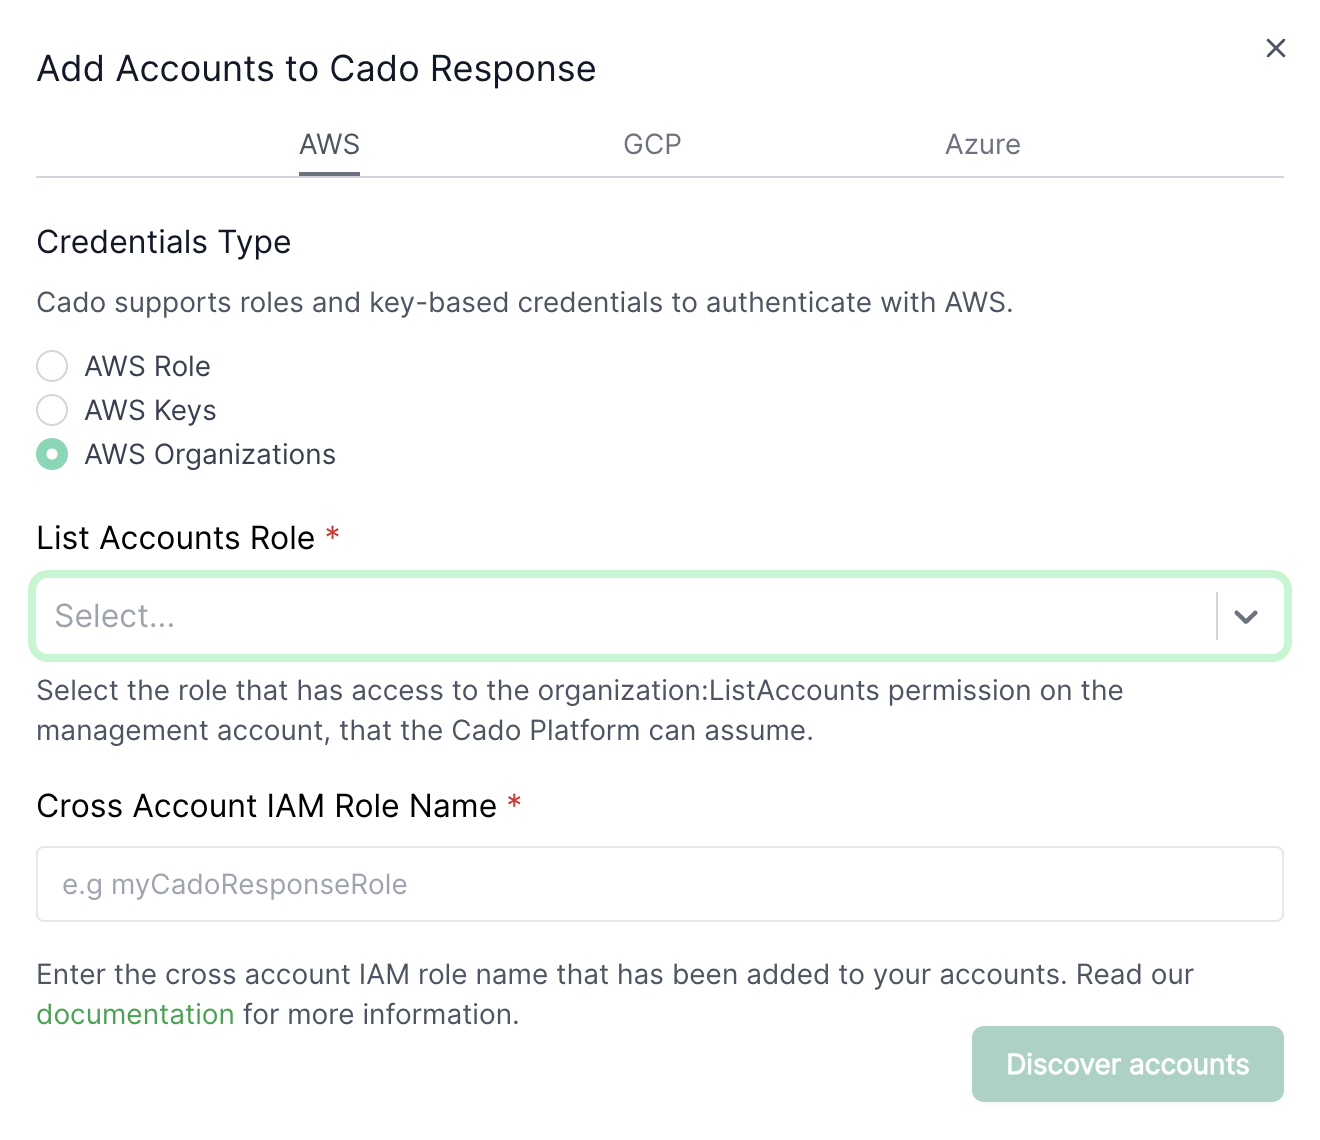
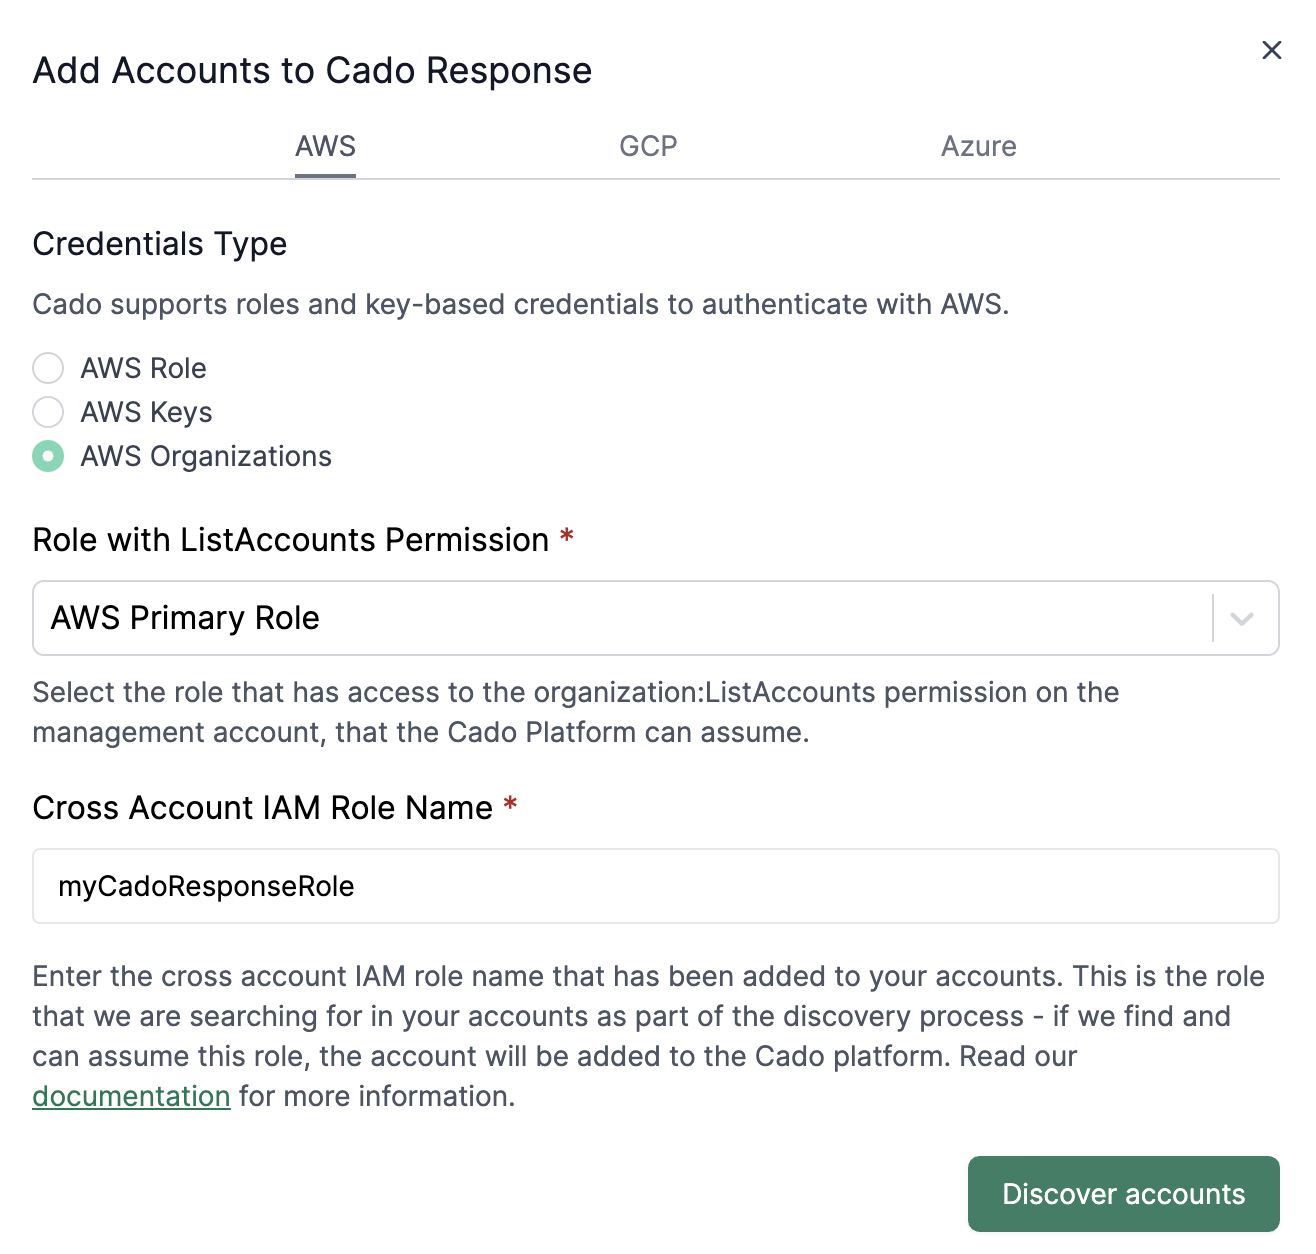
Improve AWS orgs and api docs

diff --git a/docs/cado/deploy/cross/aws-organizations.md b/docs/cado/deploy/cross/aws-organizations.md
@@ -6,23 +6,30 @@ sidebar_position: 5
 
 # How to automatically add cross-account roles to Cado with AWS Organizations
 
+This guide will walk you through how to integrate AWS roles into the Cado platform using AWS Organizations. It covers how to configure account discovery, permissions, and common troubleshooting scenarios.
+
+This is the recommended way to add cross-account roles you have deployed to the Cado Platform, to enable the platform to import data from multiple AWS accounts.
+
 :::tip
-This feature is currently in beta and is the recommended method. To enable it, go to *Settings > Experiments* and turn on "AWS Organizations Account Discovery."
+This feature is currently in beta. To enable it, go to *Settings > Experiments* and turn on "AWS Organizations Account Discovery."
 :::
 
-Using AWS Organizations is an alternative, and recommended, way to enable [cross-account access](./cross-account-creation.md) for the Cado Platform. This method simplifies managing access to multiple AWS accounts in environments where accounts are organized under AWS Organizations.
 
-You can view the cross-account role configuration [here](https://github.com/cado-security/Deployment-Templates/blob/main/cross-account/CrossAccountPolicy.yaml).
+Alternatively, you can use the [Cado API](/cado/deploy/cross/cross-account-creation-api) to add cross-account roles to the platform.
 
-## Permissions: ListAccounts
+## Prerequisites
 
-The [ListAccounts](https://docs.aws.amazon.com/organizations/latest/APIReference/API_ListAccounts.html) operation retrieves a list of all accounts within your organization. It can only be executed from the management account of the AWS Organization. 
+Before starting, ensure that you have the following in place:
+- **AWS Organizations** configured with multiple AWS accounts under a single management account.
+- **IAM roles** with the necessary cross-account permissions applied to all AWS accounts using [AWS StackSets](/cado/deploy/cross/cross-account-creation-auto) or [manual deployment](/cado/deploy/cross/cross-account-creation).
+- **Cado Platform Access**, specifically with admin rights to manage cloud accounts.
 
-In the Cado Platform, you’ll need to choose the role with the ListAccounts permission for the management account. You can do this by selecting the appropriate role from the 'List Accounts Role' dropdown, found in *Settings > Cloud Accounts*.
 
-### Example IAM Policy
+### 1. **Setting Permissions for Account Discovery**
 
-Here’s an example of an IAM policy for granting the ListAccounts permission:
+The [ListAccounts](https://docs.aws.amazon.com/organizations/latest/APIReference/API_ListAccounts.html) operation is used by Cado to retrieve a list of all accounts within your organization. It can only be executed from the management account of the AWS Organization.
+
+For the code to function correctly, the IAM role used for discovery must have the necessary permissions to list accounts in AWS Organizations. Here’s a minimal example of an IAM policy:
 
 ```json
 {
@@ -31,9 +38,6 @@ Here’s an example of an IAM policy for granting the ListAccounts permission:
     {
       "Sid": "ListAccounts",
       "Effect": "Allow",
-      "Principal": {
-        "AWS": "arn:aws:iam::xxx:root"
-      },
       "Action": [
         "organizations:ListAccounts",
         "organizations:ListTagsForResource"
@@ -44,15 +48,49 @@ Here’s an example of an IAM policy for granting the ListAccounts permission:
 }
 ```
 
-![Select List Accounts Role](/img/aws-orgs-list-accounts-role.png)
+This policy must be attached to the role that the Cado platform will assume.
 
-## Setting Up a Cross-Account IAM Role
+The ListAccounts permission should be set in the root account, and the Cado role (or a role that has trust with the Cado role) should be allowed to assume it.
 
-To enable cross-account access, enter the name of your IAM role (e.g., `CadoResponseRole`) in the 'Cross Account IAM Role Name' field.
 
-Then, click 'Discover accounts.' This will trigger a process to identify all AWS accounts where the specified role exists and is assumable.
 
-![AWS Orgs Settings in Cado](/img/aws-orgs-cross-account-iam-role.png)
+### 2. **Select List Accounts Role in Cado**
+
+To enable cross-account discovery on the Cado platform, follow these steps:
+
+- Go to `Settings > Cloud Accounts`.
+- Under the "List Accounts Role" dropdown, select the role with permissions to list accounts in your AWS Organization.
+
+You will need to select the role containing the organizations:ListAccounts permission to the platform via Settings > Cloud Accounts. This role should have a trust policy allowing the CadoResponseRole to assume it, and added to the platform manually via Settings > Cloud Accounts.
+
+The dropdown will only list roles that have been added to the platform. Since Cado validates the roles before adding them, all roles shown should be assumable by the CadoResponseRole.
+
+An example is below:
+
+![Select List Accounts Role 1](/img/aws-orgs-list-accounts-role-1.png)
+
+
+### 3. **Set Cross-Account IAM Role**
+
+
+Next, configure the cross-account IAM role that the Cado platform will use to interact with other accounts:
+
+- Enter the role name (e.g., `CadoResponseRole`) in the `Cross Account IAM Role Name` field.
+- Click `Discover accounts` to trigger the discovery process using the provided role.
+
+Ensure that only the role name is used, not the entire ARN. The role name should be the name of the role that was applied to all AWS accounts using the StackSet.
+
+An example is below:
+
+![Select List Accounts Role 2](/img/aws-orgs-list-accounts-role-2.png)
+
+
+
+### 3. **Pipeline execution**
+The pipeline to add accounts will then execute, and can be monitored in the pipeline view.
+
+![Pipeline View](/img/aws-orgs-pipeline.png)
+
 
 ## Performing Account Checks
 

diff --git a/docs/cado/deploy/cross/cross-account-creation-api.md b/docs/cado/deploy/cross/cross-account-creation-api.md
@@ -1,0 +1,68 @@
+---
+title: Add cross-account roles in AWS to Cado with the API
+hide_title: true
+sidebar_position: 5
+---
+
+# How to add cross-account roles in AWS to Cado with the API
+
+This Python script automates the process of adding AWS roles to the Cado platform. Roles are added via the Cado API, and the script reads the roles from a CSV file, saving them with an alias in the platform. This is useful for managing AWS access credentials across multiple roles in your AWS environment.
+
+Alternatively you can use [AWS Organizations](/cado/deploy/cross/aws-organizations) to automatically add cross-account roles to Cado.
+
+## Prerequisites
+
+1. **Python 3.x**: Make sure you have Python 3.x installed on your system.
+2. **Cado Platform API Access**: You will need an API key and the platform URL to interact with the Cado API.
+3. **CSV File of Roles**: The roles you wish to add should be stored in a CSV file (explained below).
+4. **Clone the Cado API Examples Repository**: Clone the [Cado API Examples repository](https://github.com/cado-security/cado-api-examples/tree/main) to access the script examples/saving_credentials.py .
+
+## Steps to Use the Script
+
+### 1. Configure API URL and Secret Key
+
+First, you need to set the `API_URL` and `API_KEY` in the `config.py` file. Create this file if it doesn't already exist and ensure it includes the following variables:
+
+```python
+# config.py
+API_URL = "https://<your-cado-instance-url>"  # Replace with your Cado platform URL
+API_KEY = "<your-api-key>"  # Replace with your Cado platform API key
+```
+
+See the [Cado API documentation](/cado/integrations/api-overview#creating-and-storing-an-api-access-key) for more information on how to obtain your API key.
+
+### 2. Prepare the CSV File
+
+The script reads AWS roles from a CSV file named `roles.csv`. This file should be formatted as follows:
+
+```
+arn:aws:iam::000000000001:role/CadoResponseRole1,MyRoleAlias1
+arn:aws:iam::000000000002:role/CadoResponseRole2,MyRoleAlias2
+```
+
+- **Role**: This should be the full ARN of the AWS role.
+- **Alias**: This is the name that will appear in the Cado UI to represent the role.
+
+Ensure your CSV file is in the same directory as the script.
+
+### 3. Run the Script
+
+To add AWS roles to the Cado platform:
+
+1. Navigate to the directory where the script is saved.
+2. Run the script from your terminal using the following command:
+
+```bash
+python saving_credentials.py
+```
+
+The script will read the `roles.csv` file and add each role to the platform.
+
+### 4. Example Script Output
+
+As the script runs, it will output the status of each role being added, including the HTTP status code and the API response. Example output:
+
+```
+Add Role: [arn:aws:iam::000000000001:role/CadoResponseRole1] with Alias [MyRoleAlias1], Status: 200, Response: {"message": "Role added successfully"}
+Add Role: [arn:aws:iam::000000000002:role/CadoResponseRole2] with Alias [MyRoleAlias2], Status: 200, Response: {"message": "Role added successfully"}
+```
